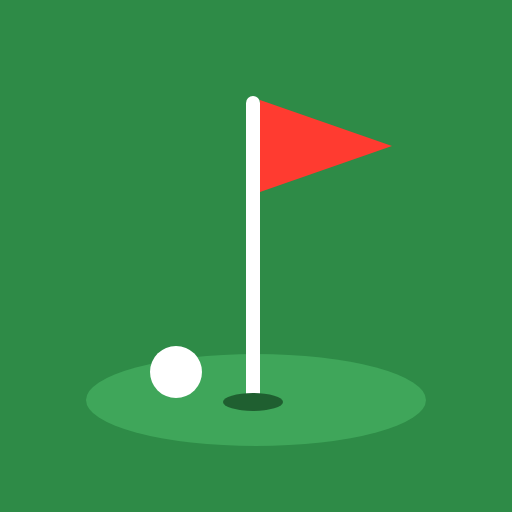
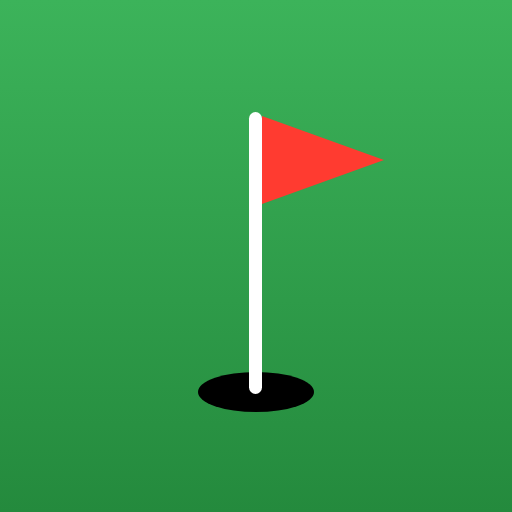
Estilo iOS sobrio, cabecera fija, solo total, nuevo icono

diff --git a/styles.css b/styles.css
@@ -1,43 +1,44 @@
 :root {
   --bg: #f2f2f7; --card: #fff; --text: #000; --muted: #8e8e93; --line: #e5e5ea;
   --accent: #007aff; --sub: #f7f7fa; --green: #34c759; --red: #ff3b30;
-  --under: #dff5e3; --bogey: #fff1d6; --double: #ffe0de; --warn: #ff3b30;
+  --warn: #ff3b30;
 }
 @media (prefers-color-scheme: dark) {
   :root {
     --bg: #000; --card: #1c1c1e; --text: #fff; --muted: #8e8e93; --line: #38383a;
-    --accent: #0a84ff; --sub: #2c2c2e; --under: #1d3b24; --bogey: #3d3218; --double: #42201e;
+    --accent: #0a84ff; --sub: #2c2c2e;
   }
 }
 * { box-sizing: border-box; -webkit-tap-highlight-color: transparent; }
 html, body { margin: 0; background: var(--bg); color: var(--text);
   font: 16px/1.3 -apple-system, BlinkMacSystemFont, "SF Pro Text", system-ui, sans-serif; }
-body { padding: env(safe-area-inset-top) 0 calc(env(safe-area-inset-bottom) + 16px); }
+/* Solo se desplaza la lista; la cabecera queda siempre fija */
+html, body { height: 100%; overflow: hidden; }
+body { display: flex; flex-direction: column; height: 100dvh; }
 button { font: inherit; }
 
-.top { position: sticky; top: 0; z-index: 3; background: var(--bg);
-  padding: 8px 12px 6px; padding-top: calc(env(safe-area-inset-top) + 8px); margin-top: calc(-1 * env(safe-area-inset-top)); }
-.course { width: 100%; border: 0; background: transparent; color: var(--text);
+.top { flex: none; z-index: 3; background: var(--bg);
+  padding: calc(env(safe-area-inset-top) + 8px) 8px 0; }
+.course { width: calc(100% - 8px); margin: 0 4px; border: 0; background: transparent; color: var(--text);
   font-size: 22px; font-weight: 700; padding: 4px 2px; outline: none; }
 .course::placeholder { color: var(--muted); font-weight: 600; }
 .summary { display: grid; grid-template-columns: repeat(4, 1fr); gap: 6px; margin-top: 4px; }
 .stat { background: var(--card); border-radius: 10px; padding: 6px 4px; text-align: center; }
 .stat .num { display: block; font-size: 20px; font-weight: 700; font-variant-numeric: tabular-nums; }
 .stat .lbl { font-size: 11px; color: var(--muted); }
-.num.over { color: var(--red); } .num.under { color: var(--green); }
 
-main { padding: 0 8px; }
+main { flex: 1; min-height: 0; overflow-y: auto; -webkit-overflow-scrolling: touch;
+  overscroll-behavior: contain; padding: 0 8px calc(env(safe-area-inset-bottom) + 16px); }
 .card { width: 100%; border-collapse: separate; border-spacing: 0; background: var(--card);
   border-radius: 12px; table-layout: fixed; font-variant-numeric: tabular-nums; }
 .c-hole { width: 13%; } .c-par { width: 16%; } .c-hcp { width: 16%; }
 .c-g { width: 19%; } .c-s { width: 18%; } .c-p { width: 18%; }
-thead th:first-child { border-top-left-radius: 12px; }
-thead th:last-child { border-top-right-radius: 12px; }
+.cols { width: 100%; table-layout: fixed; border-collapse: separate; border-spacing: 0; margin-top: 8px;
+  background: var(--card); border-radius: 12px 12px 0 0; border-bottom: 1px solid var(--line); }
+.cols th { font-size: 12px; font-weight: 600; color: var(--muted); padding: 8px 0 7px; white-space: nowrap; }
+.card { border-radius: 0 0 12px 12px; }
 tr.grand td:first-child { border-bottom-left-radius: 12px; }
 tr.grand td:last-child { border-bottom-right-radius: 12px; }
-thead th { position: sticky; top: var(--head-h, 108px); z-index: 2; background: var(--card);
-  font-size: 12px; font-weight: 600; color: var(--muted); padding: 8px 0 6px;
-  border-bottom: 1px solid var(--line); white-space: nowrap; }
 td { border-bottom: 1px solid var(--line); padding: 3px 3px; text-align: center; height: 42px; }
 tr:last-child td { border-bottom: 0; }
 td.hole { font-weight: 700; font-size: 17px; }
@@ -48,15 +49,13 @@ td.split { border-left: 1px solid var(--line); }
   padding: 0; outline: none; appearance: none; -webkit-appearance: none; font-variant-numeric: tabular-nums; }
 .cell:focus { border-color: var(--accent); background: var(--card); }
 .cell::placeholder { color: var(--line); }
-.cell.under { background: var(--under); } .cell.bogey { background: var(--bogey); } .cell.double { background: var(--double); }
-.cell.warn { border-color: var(--warn); }
+.cell.warn { color: var(--warn); }
 .hcp { color: var(--accent); }
 .hcp.empty { color: var(--muted); font-weight: 400; }
 
-tr.total td { background: var(--sub); font-weight: 700; font-size: 16px; height: 36px; }
-tr.total td.lbl { font-size: 13px; color: var(--muted); }
-tr.total.grand td { font-size: 18px; }
-tr.total.grand td.lbl { color: var(--text); }
+tr.total td { font-weight: 700; font-size: 18px; height: 44px; border-top: 1px solid var(--line); }
+tr.total td.lbl { font-size: 14px; }
+tr.total td.lbl { color: var(--text); }
 
 .legend { font-size: 12px; color: var(--muted); margin: 10px 6px; }
 .actions { margin: 18px 4px 8px; }

diff --git a/app.js b/app.js
@@ -78,9 +78,7 @@ function build() {
   rowsEl.textContent = '';
   for (let i = 0; i < HOLES; i++) {
     rowsEl.append(holeRow(i));
-    if (i === 8) { const t = totalRow('Ida', 'out'); t.range = [0, 9]; totals.push(t); rowsEl.append(t); }
   }
-  const back = totalRow('Vuelta', 'in'); back.range = [9, 18]; totals.push(back); rowsEl.append(back);
   const all = totalRow('Total', 'grand'); all.range = [0, 18]; totals.push(all); rowsEl.append(all);
   $('course').value = state.course;
 }
@@ -88,12 +86,6 @@ function build() {
 function refreshRow(i) {
   const h = state.holes[i];
   const tr = rowsEl.querySelector(`tr[data-i="${i}"]`);
-  const g = tr.querySelector('[data-f="g"]');
-  g.classList.remove('under', 'bogey', 'double');
-  if (h.g != null && h.par != null) {
-    const d = h.g - h.par;
-    if (d < 0) g.classList.add('under'); else if (d === 1) g.classList.add('bogey'); else if (d > 1) g.classList.add('double');
-  }
   // Los golpes cortos más los putts no pueden superar el total de golpes
   const bad = h.g != null && (h.s || 0) + (h.p || 0) > h.g;
   for (const f of ['g', 's', 'p']) tr.querySelector(`[data-f="${f}"]`).classList.toggle('warn', bad);
@@ -118,8 +110,6 @@ function refreshTotals() {
   for (const h of state.holes) if (h.g != null && h.par != null) { d += h.g - h.par; any = true; }
   const el = $('sumDiff');
   el.textContent = any ? signed(d) : '–';
-  el.classList.toggle('over', any && d > 0);
-  el.classList.toggle('under', any && d < 0);
 }
 
 function refreshAll() {
@@ -202,24 +192,17 @@ function reloadInputs() {
 $('newRound').addEventListener('click', () => {
   if (!confirm('¿Empezar una ronda nueva? Se borran los golpes de todos los hoyos.')) return;
   for (const h of state.holes) { h.g = null; h.s = null; h.p = null; }
-  save(); reloadInputs(); window.scrollTo(0, 0);
+  save(); reloadInputs(); document.querySelector('main').scrollTop = 0;
 });
 $('resetCourse').addEventListener('click', () => {
   if (!confirm('¿Borrar todo? Se pierden el par, la dificultad, el nombre del campo y los golpes.')) return;
   state.course = '';
   state.holes = Array.from({ length: HOLES }, blankHole);
-  save(); reloadInputs(); window.scrollTo(0, 0);
+  save(); reloadInputs(); document.querySelector('main').scrollTop = 0;
 });
-
-// La cabecera de la tabla se queda fija justo debajo del resumen
-function setHeadOffset() {
-  document.documentElement.style.setProperty('--head-h', $('course').closest('.top').offsetHeight + 'px');
-}
-window.addEventListener('resize', setHeadOffset);
 
 build();
 refreshAll();
-setHeadOffset();
 
 if ('serviceWorker' in navigator) {
   window.addEventListener('load', () => navigator.serviceWorker.register('sw.js').catch(() => {}));

diff --git a/index.html b/index.html
@@ -25,18 +25,15 @@
       <div class="stat"><span class="num" id="sumPar">–</span><span class="lbl">par</span></div>
       <div class="stat"><span class="num" id="sumPutts">–</span><span class="lbl">putts</span></div>
     </div>
+    <table class="cols">
+      <colgroup><col class="c-hole"><col class="c-par"><col class="c-hcp"><col class="c-g"><col class="c-s"><col class="c-p"></colgroup>
+      <tr><th>Hoyo</th><th>Par</th><th>Dific.</th><th>Golpes</th><th>&lt;100&nbsp;m</th><th>Putts</th></tr>
+    </table>
   </header>
 
   <main>
     <table class="card" id="card">
-      <colgroup>
-        <col class="c-hole"><col class="c-par"><col class="c-hcp"><col class="c-g"><col class="c-s"><col class="c-p">
-      </colgroup>
-      <thead>
-        <tr>
-          <th>Hoyo</th><th>Par</th><th>Dific.</th><th>Golpes</th><th>&lt;100&nbsp;m</th><th>Putts</th>
-        </tr>
-      </thead>
+      <colgroup><col class="c-hole"><col class="c-par"><col class="c-hcp"><col class="c-g"><col class="c-s"><col class="c-p"></colgroup>
       <tbody id="rows"></tbody>
     </table>
 

diff --git a/sw.js b/sw.js
@@ -1,6 +1,6 @@
 // Service worker: guarda la app para usarla sin conexión.
 // Red primero con límite de tiempo; si no hay red o tarda, usa la copia guardada.
-const CACHE_VERSION = 'golf-v1';
+const CACHE_VERSION = 'golf-v2';
 const NETWORK_TIMEOUT = 3000;
 const APP_SHELL = [
   './', './index.html', './styles.css', './app.js',
